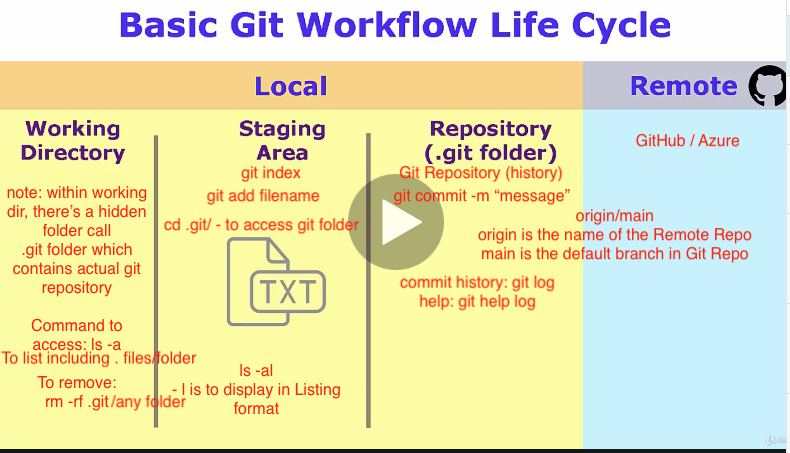
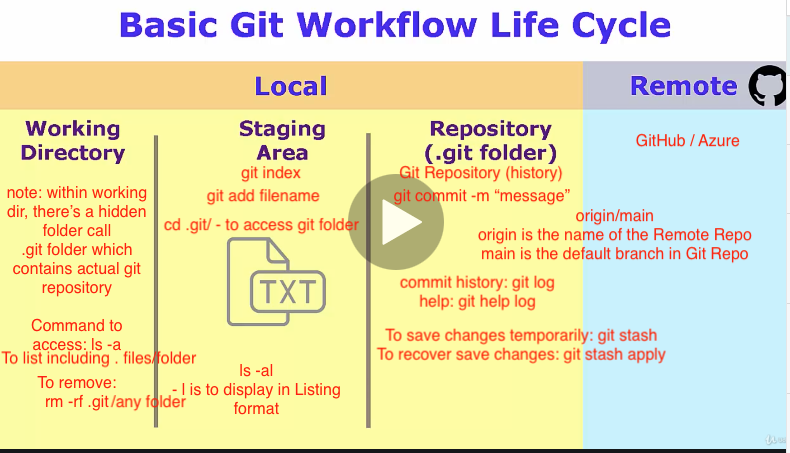
Done with simple html updates

Changed region(s): [[0.4861, 0.7108, 0.8506, 0.8035]]

diff --git a/starter-web/simple.html b/starter-web/simple.html
@@ -1,6 +1,6 @@
 <!DOCTYPE html>
 <head>
-	<title>Git Website</title>
+	<title>Updating Title for Stash Example</title>
 	<link rel="stylesheet" href="css/bootstrap.min.css">
 	<style>
 		body {
@@ -16,7 +16,7 @@
 	<main class="container">
 	<!-- Content Goes Here -->
 		<p>
-			Git is cool!
+			Git is cool! Just learned git stash to save changes. 
 		</p>
 	</main>
 	<footer class="container">
